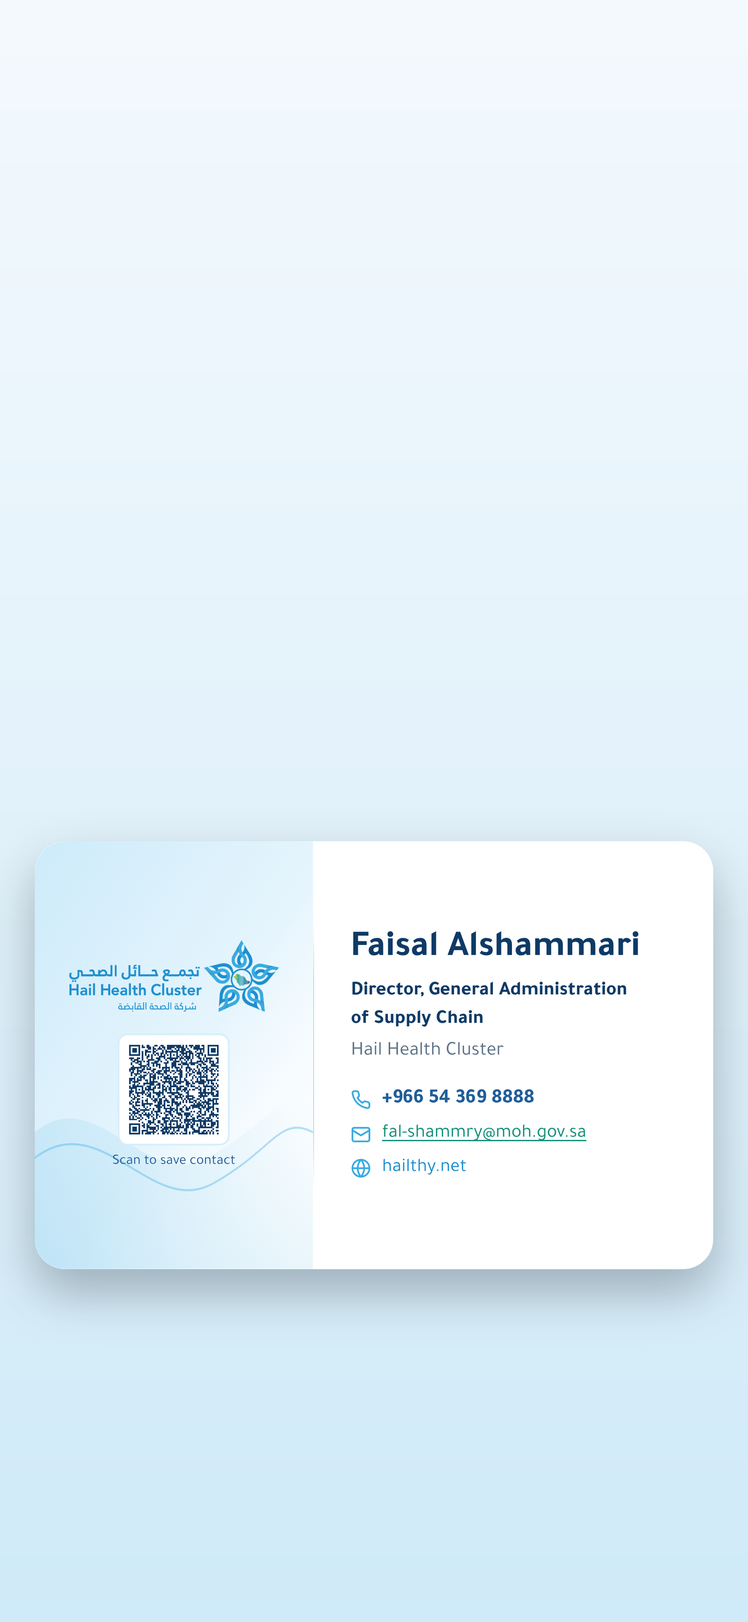
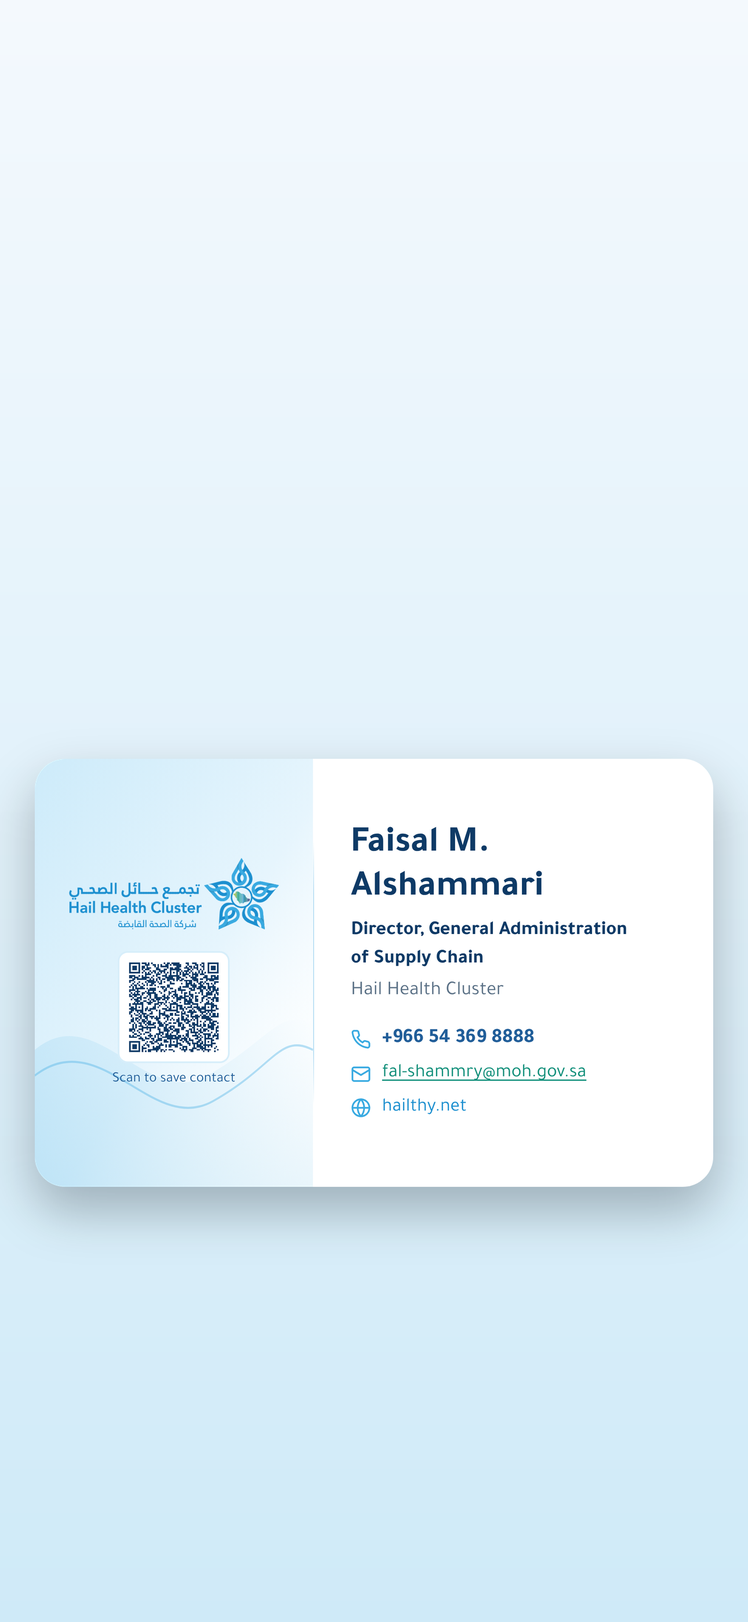
Use Faisal's full three-part name on card, contacts, QR and images
Claude-Session: https://claude.ai/code/session_01A1Siw2K8pY4JQKF1jR9KjP

Changed region(s): [[0.031, 0.4667, 0.9612, 0.809], [0.031, 0.4979, 0.062, 0.529]]

diff --git a/index.html b/index.html
@@ -3,7 +3,7 @@
 <head>
 <meta charset="utf-8">
 <meta name="viewport" content="width=device-width,initial-scale=1,viewport-fit=cover">
-<title>فيصل الشمري | Faisal Alshammari</title>
+<title>فيصل مذود الشمري | Faisal M. Alshammari</title>
 <meta name="description" content="بطاقة تعريف رقمية - تجمع حائل الصحي">
 <meta name="theme-color" content="#1C8FCF">
 <meta name="apple-mobile-web-app-capable" content="yes">
@@ -112,13 +112,14 @@ body{background:var(--ground);color:var(--ink);font-family:var(--font);-webkit-t
           <div class="brand">
             <svg class="wave" viewBox="0 0 100 100" preserveAspectRatio="none" aria-hidden="true"><defs><linearGradient id="g" x1="0" y1="0" x2="1" y2="1"><stop offset="0" stop-color="#CDEBFA"/><stop offset=".55" stop-color="#E6F5FD"/><stop offset="1" stop-color="#FFFFFF" stop-opacity="0"/></linearGradient><linearGradient id="g2" x1="0" y1="1" x2="1" y2="0"><stop offset="0" stop-color="#39AAE1" stop-opacity=".22"/><stop offset="1" stop-color="#39AAE1" stop-opacity="0"/></linearGradient></defs><path fill="url(#g)" d="M0 0H100V100H0Z"/><path fill="url(#g2)" d="M0 68C22 56 40 82 62 74S88 58 100 62V100H0Z"/><path fill="none" stroke="#39AAE1" stroke-opacity=".35" stroke-width=".5" d="M0 74C24 62 42 88 64 80S88 64 100 68"/></svg>
             <img src="logo.png" alt="تجمع حائل الصحي - شركة الصحة القابضة">
-            <div class="qr" role="img" aria-label="رمز QR لحفظ جهة الاتصال"><svg xmlns="http://www.w3.org/2000/svg" viewBox="0 0 61 61" shape-rendering="crispEdges"><path class="qrline" stroke="#0e3a66" d="M0 0.5h7m2 0h1m1 0h1m1 0h2m1 0h1m3 0h1m1 0h2m1 0h3m1 0h3m2 0h1m1 0h1m3 0h5m1 0h1m4 0h2m1 0h7m-61 1h1m5 0h1m1 0h2m1 0h2m3 0h1m1 0h2m1 0h4m3 0h1m6 0h5m1 0h1m1 0h2m2 0h2m2 0h2m1 0h1m5 0h1m-61 1h1m1 0h3m1 0h1m1 0h1m3 0h1m1 0h1m1 0h1m1 0h1m1 0h1m1 0h1m5 0h1m2 0h3m1 0h1m2 0h1m1 0h1m1 0h1m4 0h1m2 0h3m1 0h1m1 0h3m1 0h1m-61 1h1m1 0h3m1 0h1m5 0h1m2 0h2m2 0h1m2 0h3m2 0h1m3 0h5m5 0h1m1 0h1m6 0h1m1 0h1m1 0h1m1 0h3m1 0h1m-61 1h1m1 0h3m1 0h1m1 0h3m2 0h2m4 0h1m1 0h1m1 0h4m1 0h10m2 0h1m1 0h2m2 0h3m1 0h2m2 0h1m1 0h3m1 0h1m-61 1h1m5 0h1m1 0h2m1 0h1m1 0h1m1 0h1m1 0h2m1 0h3m1 0h3m1 0h1m3 0h2m3 0h2m3 0h2m1 0h1m2 0h1m1 0h1m3 0h1m5 0h1m-61 1h7m1 0h1m1 0h1m1 0h1m1 0h1m1 0h1m1 0h1m1 0h1m1 0h1m1 0h1m1 0h1m1 0h1m1 0h1m1 0h1m1 0h1m1 0h1m1 0h1m1 0h1m1 0h1m1 0h1m1 0h1m1 0h1m1 0h1m1 0h1m1 0h7m-53 1h5m2 0h1m1 0h2m1 0h6m2 0h1m3 0h2m1 0h1m1 0h1m6 0h1m1 0h2m1 0h1m1 0h2m-53 1h2m1 0h1m2 0h2m1 0h2m3 0h3m2 0h1m4 0h1m3 0h5m2 0h1m2 0h1m1 0h1m3 0h3m1 0h1m1 0h1m3 0h3m1 0h2m-60 1h1m1 0h4m1 0h1m1 0h6m1 0h2m1 0h1m2 0h1m1 0h1m2 0h3m1 0h1m2 0h1m2 0h1m4 0h2m3 0h1m3 0h2m2 0h5m-59 1h3m2 0h1m10 0h2m1 0h2m2 0h3m2 0h2m2 0h1m6 0h4m3 0h4m3 0h1m1 0h1m1 0h3m-60 1h2m1 0h2m2 0h1m3 0h2m3 0h1m1 0h5m2 0h1m1 0h2m1 0h1m1 0h1m1 0h1m1 0h2m3 0h1m3 0h2m1 0h1m1 0h2m1 0h3m1 0h1m1 0h1m-60 1h2m1 0h4m2 0h2m1 0h5m3 0h2m2 0h1m4 0h2m2 0h1m1 0h2m1 0h1m3 0h2m1 0h2m2 0h9m1 0h1m-61 1h1m2 0h2m2 0h2m2 0h2m1 0h1m1 0h1m2 0h1m1 0h1m1 0h1m1 0h1m3 0h1m7 0h1m1 0h1m3 0h1m2 0h1m1 0h1m1 0h1m2 0h1m2 0h2m1 0h2m-55 1h2m5 0h3m1 0h3m2 0h3m1 0h3m1 0h2m1 0h4m5 0h2m1 0h1m2 0h1m1 0h2m1 0h1m3 0h4m-59 1h2m1 0h1m3 0h1m1 0h4m1 0h2m1 0h1m5 0h1m3 0h1m3 0h2m1 0h2m3 0h1m2 0h2m2 0h1m1 0h1m4 0h1m1 0h4m-55 1h2m1 0h1m7 0h1m1 0h1m3 0h3m1 0h1m1 0h2m5 0h1m1 0h4m1 0h4m1 0h1m2 0h1m2 0h2m3 0h2m-59 1h1m2 0h1m1 0h1m1 0h6m1 0h2m1 0h1m5 0h1m1 0h2m1 0h2m1 0h1m1 0h1m5 0h1m2 0h2m2 0h1m4 0h2m1 0h1m1 0h2m-60 1h1m1 0h2m1 0h2m10 0h1m2 0h1m2 0h5m1 0h1m3 0h1m3 0h4m1 0h3m2 0h1m1 0h2m2 0h2m4 0h1m-59 1h1m5 0h1m2 0h1m1 0h1m7 0h4m1 0h1m1 0h1m1 0h1m3 0h2m1 0h2m2 0h1m1 0h1m3 0h3m2 0h1m2 0h3m1 0h1m1 0h1m-60 1h2m1 0h4m1 0h1m1 0h2m1 0h1m3 0h2m8 0h3m1 0h4m1 0h1m1 0h2m3 0h1m1 0h1m1 0h4m1 0h2m1 0h2m1 0h2m-61 1h3m1 0h1m2 0h4m1 0h2m4 0h1m1 0h4m2 0h5m1 0h2m1 0h1m2 0h4m4 0h1m2 0h1m3 0h1m1 0h1m3 0h2m-60 1h1m1 0h2m1 0h5m1 0h2m1 0h2m1 0h3m1 0h2m3 0h1m2 0h4m4 0h1m1 0h1m1 0h2m1 0h1m2 0h1m4 0h1m1 0h1m1 0h1m-57 1h1m5 0h1m2 0h3m1 0h1m1 0h2m2 0h1m3 0h2m2 0h1m1 0h1m2 0h3m2 0h1m1 0h1m1 0h1m1 0h1m1 0h2m2 0h1m5 0h1m-56 1h1m2 0h3m2 0h1m2 0h1m1 0h1m1 0h1m1 0h1m1 0h2m2 0h2m8 0h2m4 0h4m2 0h8m1 0h2m1 0h1m-58 1h2m4 0h1m4 0h2m1 0h1m3 0h2m1 0h3m2 0h1m1 0h3m1 0h1m7 0h2m1 0h6m6 0h2m1 0h1m-58 1h1m3 0h3m2 0h1m3 0h3m2 0h1m1 0h1m1 0h1m1 0h3m1 0h1m2 0h1m1 0h4m2 0h2m1 0h2m1 0h1m1 0h1m1 0h4m1 0h1m1 0h1m1 0h1m-61 1h1m2 0h3m7 0h5m2 0h1m2 0h2m2 0h1m5 0h3m1 0h1m2 0h1m2 0h2m2 0h2m4 0h1m3 0h2m-59 1h10m1 0h2m1 0h1m4 0h1m1 0h1m2 0h2m1 0h6m2 0h1m2 0h1m3 0h1m1 0h1m4 0h1m2 0h5m1 0h1m-59 1h1m1 0h1m1 0h1m3 0h1m1 0h1m2 0h2m2 0h2m1 0h3m1 0h5m3 0h3m1 0h1m1 0h1m2 0h1m1 0h1m8 0h1m3 0h1m2 0h2m-59 1h1m1 0h1m1 0h1m1 0h2m1 0h2m7 0h2m1 0h2m3 0h1m1 0h1m1 0h1m2 0h1m1 0h4m1 0h2m5 0h2m1 0h1m1 0h1m1 0h1m1 0h3m-61 1h1m2 0h2m3 0h2m2 0h1m1 0h2m4 0h2m1 0h3m1 0h2m3 0h2m2 0h1m1 0h3m6 0h1m2 0h1m1 0h1m3 0h3m1 0h1m-60 1h1m1 0h6m2 0h3m1 0h3m1 0h1m1 0h1m1 0h2m2 0h6m1 0h4m4 0h2m4 0h1m3 0h5m-56 1h1m7 0h2m2 0h3m1 0h1m2 0h2m2 0h6m1 0h1m1 0h1m1 0h4m4 0h1m1 0h1m2 0h4m1 0h1m3 0h1m2 0h1m-60 1h1m1 0h1m1 0h3m1 0h1m1 0h2m2 0h1m2 0h1m1 0h2m7 0h1m1 0h8m1 0h1m1 0h6m1 0h1m1 0h1m1 0h1m2 0h3m-59 1h1m6 0h4m2 0h1m1 0h1m2 0h1m1 0h1m1 0h3m1 0h3m1 0h1m1 0h1m1 0h2m1 0h1m2 0h1m1 0h1m1 0h3m1 0h2m1 0h1m1 0h1m2 0h1m-57 1h7m4 0h3m3 0h3m1 0h1m2 0h3m2 0h1m1 0h2m2 0h1m2 0h1m1 0h1m2 0h1m2 0h3m3 0h1m2 0h2m-57 1h1m2 0h2m2 0h2m1 0h1m3 0h1m1 0h1m1 0h1m1 0h1m1 0h1m2 0h1m1 0h1m1 0h1m1 0h1m3 0h2m1 0h3m2 0h1m1 0h1m1 0h1m3 0h1m1 0h1m1 0h2m1 0h1m-59 1h4m1 0h2m1 0h3m3 0h3m6 0h1m3 0h1m1 0h1m1 0h1m2 0h2m2 0h8m1 0h1m2 0h1m2 0h1m1 0h3m-58 1h2m1 0h3m2 0h3m2 0h1m2 0h6m1 0h1m4 0h3m1 0h1m2 0h1m3 0h2m3 0h4m1 0h1m2 0h3m4 0h2m-60 1h2m2 0h2m1 0h1m1 0h2m1 0h3m1 0h1m2 0h1m1 0h5m1 0h6m4 0h1m3 0h5m1 0h2m6 0h1m-55 1h1m2 0h1m4 0h2m4 0h1m2 0h6m1 0h1m5 0h1m1 0h2m1 0h7m3 0h2m1 0h3m1 0h1m3 0h2m-56 1h1m1 0h1m2 0h1m1 0h5m2 0h4m1 0h1m4 0h2m1 0h1m1 0h2m2 0h1m3 0h3m1 0h3m1 0h2m1 0h5m1 0h1m1 0h1m-60 1h1m1 0h1m3 0h1m1 0h1m2 0h1m1 0h3m4 0h2m3 0h1m3 0h1m3 0h2m3 0h4m1 0h2m4 0h6m-54 1h1m2 0h2m1 0h2m1 0h4m1 0h1m3 0h1m1 0h1m1 0h5m4 0h1m1 0h2m1 0h3m1 0h2m2 0h1m2 0h1m1 0h1m1 0h8m-61 1h2m2 0h1m2 0h5m1 0h3m5 0h2m1 0h1m2 0h2m5 0h2m3 0h1m3 0h2m2 0h1m1 0h3m3 0h1m1 0h1m1 0h2m-60 1h2m1 0h4m1 0h1m3 0h1m2 0h3m4 0h5m1 0h1m1 0h3m2 0h7m2 0h2m1 0h8m3 0h2m-59 1h2m3 0h3m1 0h2m1 0h3m2 0h2m2 0h1m1 0h2m1 0h1m4 0h5m3 0h2m1 0h2m4 0h4m4 0h3m-60 1h1m2 0h1m1 0h6m1 0h2m1 0h2m2 0h1m1 0h4m1 0h1m2 0h1m3 0h1m1 0h1m2 0h1m2 0h3m1 0h4m1 0h1m3 0h6m-58 1h3m2 0h1m1 0h1m1 0h3m5 0h1m1 0h2m1 0h1m1 0h1m2 0h5m1 0h1m2 0h2m2 0h1m1 0h2m2 0h3m1 0h1m1 0h1m1 0h2m-57 1h7m1 0h1m6 0h1m1 0h1m4 0h2m3 0h2m3 0h9m1 0h1m1 0h2m1 0h1m1 0h3m2 0h3m-59 1h3m1 0h1m3 0h2m2 0h2m2 0h1m2 0h2m2 0h1m2 0h1m6 0h1m1 0h1m2 0h2m3 0h2m2 0h2m1 0h8m2 0h1m-61 1h4m2 0h2m1 0h2m3 0h1m1 0h3m1 0h1m1 0h3m1 0h8m5 0h1m1 0h3m1 0h1m1 0h2m3 0h5m2 0h2m-53 1h1m2 0h2m1 0h1m6 0h1m1 0h1m1 0h4m3 0h2m1 0h1m3 0h3m1 0h2m1 0h7m3 0h5m-61 1h7m1 0h3m1 0h3m1 0h1m1 0h1m1 0h4m1 0h1m1 0h2m1 0h1m1 0h3m2 0h3m2 0h1m2 0h3m3 0h2m1 0h1m1 0h3m1 0h1m-61 1h1m5 0h1m3 0h2m3 0h2m2 0h1m4 0h1m1 0h3m3 0h2m3 0h1m3 0h2m3 0h3m2 0h2m3 0h1m1 0h1m1 0h1m-61 1h1m1 0h3m1 0h1m2 0h2m4 0h1m1 0h2m2 0h1m1 0h1m1 0h10m5 0h4m2 0h2m1 0h2m1 0h5m1 0h1m1 0h1m-61 1h1m1 0h3m1 0h1m1 0h2m1 0h1m1 0h1m1 0h2m3 0h1m2 0h3m1 0h1m1 0h1m1 0h4m1 0h2m1 0h1m1 0h4m2 0h1m4 0h1m2 0h5m-60 1h1m1 0h3m1 0h1m3 0h5m4 0h1m1 0h2m1 0h2m2 0h4m7 0h3m1 0h1m1 0h1m3 0h3m1 0h3m1 0h1m2 0h1m-61 1h1m5 0h1m1 0h2m4 0h4m6 0h4m1 0h1m1 0h4m3 0h2m1 0h1m1 0h1m1 0h2m1 0h1m1 0h2m1 0h6m-59 1h7m1 0h2m3 0h1m2 0h1m2 0h1m1 0h3m3 0h2m4 0h2m1 0h1m1 0h3m1 0h1m1 0h3m1 0h1m1 0h1m2 0h2m3 0h3"/></svg>
+            <div class="qr" role="img" aria-label="رمز QR لحفظ جهة الاتصال"><svg xmlns="http://www.w3.org/2000/svg" viewBox="0 0 61 61" shape-rendering="crispEdges"><path class="qrline" stroke="#0e3a66" d="M0 0.5h7m1 0h1m1 0h2m2 0h3m1 0h1m2 0h2m3 0h1m4 0h2m1 0h4m1 0h3m2 0h4m3 0h2m1 0h7m-61 1h1m5 0h1m1 0h2m2 0h1m1 0h2m1 0h1m1 0h2m1 0h1m1 0h2m1 0h2m3 0h1m4 0h2m1 0h1m3 0h3m1 0h2m1 0h2m1 0h1m5 0h1m-61 1h1m1 0h3m1 0h1m2 0h1m1 0h1m1 0h6m1 0h1m1 0h1m2 0h2m3 0h1m1 0h1m3 0h2m1 0h1m2 0h1m1 0h1m2 0h1m1 0h4m1 0h1m1 0h3m1 0h1m-61 1h1m1 0h3m1 0h1m4 0h2m1 0h1m2 0h1m2 0h1m1 0h1m5 0h1m3 0h1m1 0h3m2 0h1m3 0h2m2 0h1m1 0h2m1 0h1m1 0h1m1 0h3m1 0h1m-61 1h1m1 0h3m1 0h1m1 0h2m1 0h3m2 0h1m1 0h7m2 0h6m1 0h1m1 0h2m1 0h2m1 0h1m1 0h1m5 0h2m2 0h1m1 0h3m1 0h1m-61 1h1m5 0h1m1 0h1m5 0h1m1 0h3m3 0h1m2 0h1m1 0h2m3 0h1m1 0h3m1 0h1m1 0h6m4 0h1m3 0h1m5 0h1m-61 1h7m1 0h1m1 0h1m1 0h1m1 0h1m1 0h1m1 0h1m1 0h1m1 0h1m1 0h1m1 0h1m1 0h1m1 0h1m1 0h1m1 0h1m1 0h1m1 0h1m1 0h1m1 0h1m1 0h1m1 0h1m1 0h1m1 0h1m1 0h1m1 0h7m-53 1h1m1 0h1m1 0h2m4 0h2m1 0h1m2 0h1m3 0h1m3 0h1m1 0h1m3 0h1m2 0h1m2 0h1m3 0h2m1 0h2m-53 1h3m2 0h2m1 0h1m3 0h2m2 0h1m3 0h2m2 0h10m1 0h1m1 0h1m1 0h2m2 0h1m1 0h5m1 0h6m2 0h2m-61 1h5m2 0h1m3 0h1m3 0h2m6 0h2m3 0h1m1 0h1m2 0h3m1 0h1m1 0h4m2 0h2m2 0h1m2 0h2m2 0h2m-58 1h4m2 0h1m1 0h1m3 0h2m3 0h2m1 0h2m5 0h3m2 0h1m1 0h2m2 0h1m3 0h2m2 0h1m1 0h3m1 0h3m1 0h1m3 0h1m-61 1h1m6 0h1m5 0h3m6 0h2m1 0h3m4 0h1m1 0h1m1 0h1m2 0h1m2 0h3m3 0h3m1 0h2m2 0h3m1 0h1m-59 1h2m1 0h2m4 0h1m1 0h2m1 0h1m3 0h1m1 0h1m1 0h4m1 0h1m4 0h1m1 0h1m1 0h1m2 0h2m1 0h1m1 0h2m3 0h2m1 0h1m1 0h1m1 0h3m-58 1h1m4 0h1m3 0h6m1 0h1m3 0h4m2 0h1m1 0h2m1 0h1m1 0h2m4 0h1m6 0h1m1 0h1m1 0h3m2 0h1m1 0h1m-58 1h1m1 0h2m1 0h2m1 0h2m2 0h3m3 0h3m1 0h1m3 0h6m2 0h1m1 0h3m1 0h1m1 0h3m2 0h2m2 0h1m2 0h2m1 0h1m-57 1h2m1 0h3m2 0h1m1 0h1m1 0h1m3 0h2m2 0h2m7 0h1m1 0h1m3 0h1m1 0h1m1 0h1m3 0h3m2 0h1m3 0h1m1 0h2m-60 1h4m1 0h2m1 0h3m1 0h1m2 0h3m1 0h1m1 0h2m1 0h2m2 0h1m5 0h1m1 0h1m1 0h1m3 0h1m4 0h4m1 0h6m1 0h2m-60 1h3m1 0h1m1 0h3m2 0h1m2 0h4m1 0h2m5 0h1m1 0h1m5 0h1m1 0h3m1 0h3m4 0h4m1 0h3m1 0h3m-60 1h3m1 0h4m1 0h3m1 0h3m1 0h1m1 0h4m1 0h4m2 0h1m1 0h1m2 0h1m2 0h1m1 0h1m1 0h1m1 0h2m4 0h2m2 0h2m1 0h2m-58 1h2m4 0h4m2 0h1m1 0h3m2 0h2m3 0h2m1 0h3m2 0h1m2 0h2m2 0h2m2 0h1m1 0h3m1 0h1m1 0h3m4 0h1m-58 1h3m1 0h1m1 0h1m3 0h3m1 0h1m1 0h3m4 0h4m1 0h1m1 0h1m1 0h2m4 0h4m2 0h1m1 0h4m2 0h2m1 0h1m1 0h1m-60 1h2m1 0h2m2 0h2m3 0h1m2 0h1m1 0h1m2 0h2m3 0h2m1 0h2m1 0h1m1 0h1m3 0h5m4 0h1m1 0h1m2 0h1m1 0h1m1 0h1m1 0h1m2 0h1m-61 1h2m2 0h3m4 0h1m2 0h1m2 0h2m1 0h1m1 0h4m2 0h1m1 0h1m4 0h1m2 0h1m4 0h1m1 0h2m2 0h1m2 0h1m2 0h1m2 0h2m-60 1h1m2 0h3m1 0h4m1 0h2m1 0h3m2 0h1m3 0h1m1 0h3m2 0h2m1 0h2m1 0h1m2 0h1m1 0h2m2 0h1m2 0h1m1 0h2m2 0h1m1 0h1m-56 1h5m1 0h2m4 0h2m1 0h4m2 0h1m1 0h4m2 0h1m1 0h2m2 0h3m2 0h1m2 0h3m2 0h1m1 0h1m3 0h4m-59 1h5m7 0h1m2 0h2m1 0h3m2 0h1m3 0h1m1 0h1m3 0h2m1 0h1m4 0h1m1 0h1m1 0h2m1 0h1m1 0h3m2 0h1m1 0h1m-58 1h1m1 0h1m1 0h2m3 0h1m2 0h5m1 0h1m2 0h4m2 0h1m3 0h1m2 0h5m1 0h3m1 0h1m1 0h1m2 0h1m2 0h3m2 0h1m1 0h1m-61 1h2m1 0h1m1 0h1m1 0h1m2 0h1m5 0h2m1 0h3m2 0h4m3 0h1m2 0h1m1 0h1m1 0h1m1 0h2m2 0h1m1 0h2m6 0h1m1 0h1m1 0h3m-59 1h1m1 0h7m1 0h6m4 0h1m2 0h2m1 0h6m1 0h2m1 0h3m3 0h2m3 0h1m1 0h9m-60 1h1m1 0h3m3 0h4m1 0h1m2 0h1m8 0h2m1 0h1m3 0h1m2 0h1m1 0h1m3 0h2m1 0h2m2 0h2m2 0h1m3 0h2m2 0h1m-61 1h1m1 0h1m1 0h1m1 0h1m1 0h1m5 0h1m1 0h5m2 0h1m1 0h1m1 0h2m1 0h1m1 0h4m1 0h1m2 0h1m1 0h2m2 0h2m1 0h4m1 0h1m1 0h1m3 0h1m-61 1h2m1 0h2m3 0h1m1 0h1m1 0h1m3 0h2m1 0h2m1 0h3m1 0h1m1 0h1m3 0h4m2 0h1m3 0h1m1 0h3m3 0h1m1 0h1m3 0h3m1 0h1m-61 1h1m1 0h7m2 0h2m3 0h1m3 0h1m2 0h2m3 0h5m1 0h1m1 0h1m1 0h2m1 0h3m1 0h1m2 0h9m1 0h1m1 0h1m-59 1h1m6 0h4m1 0h1m2 0h1m1 0h2m2 0h3m1 0h1m1 0h3m1 0h1m4 0h2m2 0h1m4 0h2m1 0h2m3 0h1m1 0h4m-61 1h7m2 0h3m4 0h3m2 0h1m1 0h1m2 0h4m1 0h4m1 0h4m1 0h1m1 0h1m5 0h1m2 0h2m2 0h1m1 0h2m-58 1h2m3 0h4m1 0h1m1 0h1m4 0h3m1 0h2m1 0h3m1 0h2m1 0h1m1 0h1m2 0h1m1 0h1m2 0h1m1 0h1m2 0h3m2 0h2m2 0h1m-58 1h2m1 0h1m2 0h1m3 0h1m4 0h2m1 0h1m1 0h2m3 0h3m2 0h5m3 0h5m3 0h4m1 0h3m1 0h1m3 0h1m-59 1h1m1 0h1m1 0h1m1 0h1m3 0h2m2 0h1m3 0h2m4 0h2m1 0h2m1 0h2m2 0h1m2 0h4m3 0h2m1 0h2m2 0h2m2 0h2m1 0h1m-60 1h1m2 0h1m2 0h5m1 0h1m1 0h1m5 0h2m1 0h4m2 0h1m2 0h2m2 0h3m4 0h2m1 0h1m1 0h2m1 0h3m1 0h2m-57 1h1m3 0h2m2 0h2m1 0h3m1 0h1m2 0h2m4 0h1m3 0h1m2 0h1m1 0h1m3 0h1m1 0h1m1 0h1m1 0h3m1 0h1m3 0h2m3 0h2m-58 1h2m1 0h1m1 0h2m1 0h2m2 0h1m1 0h1m1 0h1m3 0h2m2 0h6m2 0h1m1 0h2m2 0h1m2 0h4m4 0h1m1 0h4m1 0h5m-60 1h1m1 0h3m3 0h1m1 0h1m1 0h1m1 0h2m5 0h3m4 0h2m1 0h4m1 0h1m1 0h4m1 0h6m4 0h4m2 0h1m-58 1h2m1 0h1m2 0h3m2 0h3m1 0h1m1 0h1m2 0h3m3 0h1m4 0h2m1 0h2m1 0h1m1 0h1m3 0h3m1 0h2m2 0h7m-60 1h1m1 0h3m1 0h4m1 0h1m1 0h1m2 0h1m3 0h1m3 0h2m3 0h1m3 0h5m3 0h4m2 0h2m1 0h1m1 0h3m1 0h3m-59 1h3m2 0h1m1 0h1m1 0h1m1 0h1m3 0h1m2 0h2m1 0h5m1 0h1m2 0h3m2 0h4m1 0h4m1 0h2m4 0h3m3 0h3m-61 1h1m2 0h3m1 0h1m1 0h5m1 0h3m1 0h1m3 0h1m4 0h2m1 0h1m1 0h1m3 0h1m1 0h1m2 0h1m2 0h1m7 0h1m4 0h1m1 0h1m-60 1h1m1 0h2m1 0h5m1 0h6m2 0h4m1 0h1m1 0h1m1 0h1m1 0h2m1 0h2m3 0h1m1 0h1m4 0h2m4 0h1m1 0h2m2 0h1m1 0h1m-60 1h2m4 0h1m1 0h3m2 0h1m5 0h2m1 0h1m3 0h1m1 0h1m1 0h1m3 0h1m2 0h2m1 0h3m5 0h1m3 0h1m1 0h2m1 0h1m1 0h1m-58 1h1m1 0h4m1 0h8m1 0h1m1 0h2m1 0h2m1 0h1m1 0h3m4 0h2m7 0h2m1 0h1m4 0h3m1 0h3m-59 1h3m1 0h1m4 0h1m1 0h2m1 0h2m1 0h1m1 0h2m3 0h3m1 0h2m1 0h2m1 0h2m4 0h2m4 0h1m1 0h2m2 0h1m1 0h1m3 0h1m-58 1h8m2 0h1m1 0h2m2 0h4m2 0h2m1 0h2m1 0h6m4 0h1m1 0h1m1 0h4m2 0h1m1 0h1m2 0h2m-57 1h3m1 0h1m3 0h2m5 0h3m2 0h1m1 0h1m2 0h1m1 0h2m1 0h2m1 0h5m2 0h1m3 0h1m1 0h4m2 0h2m2 0h2m-58 1h4m2 0h1m2 0h1m1 0h1m2 0h1m1 0h3m6 0h8m2 0h1m1 0h4m2 0h4m1 0h1m2 0h7m2 0h1m-53 1h1m4 0h1m1 0h1m1 0h2m1 0h2m3 0h2m1 0h1m3 0h1m4 0h2m1 0h1m2 0h1m2 0h4m2 0h1m3 0h1m1 0h1m1 0h1m-61 1h7m2 0h1m2 0h1m1 0h1m1 0h5m1 0h3m2 0h2m1 0h1m1 0h4m2 0h2m3 0h1m5 0h1m2 0h1m1 0h1m1 0h1m1 0h3m-61 1h1m5 0h1m1 0h2m3 0h1m1 0h3m2 0h2m2 0h1m1 0h1m1 0h1m3 0h1m1 0h2m1 0h2m1 0h1m1 0h1m3 0h3m3 0h1m3 0h2m1 0h2m-61 1h1m1 0h3m1 0h1m2 0h1m1 0h1m1 0h1m1 0h1m1 0h4m2 0h1m4 0h5m1 0h1m2 0h3m1 0h2m1 0h1m1 0h2m3 0h8m-59 1h1m1 0h3m1 0h1m3 0h2m5 0h1m1 0h3m5 0h1m1 0h1m1 0h1m2 0h3m5 0h1m1 0h1m1 0h1m2 0h1m3 0h1m1 0h1m2 0h1m-59 1h1m1 0h3m1 0h1m1 0h1m1 0h4m2 0h2m1 0h1m1 0h2m1 0h2m1 0h1m1 0h2m1 0h4m3 0h1m3 0h1m1 0h3m1 0h2m1 0h3m2 0h4m-61 1h1m5 0h1m1 0h3m2 0h1m2 0h1m2 0h3m4 0h2m5 0h1m2 0h2m1 0h1m1 0h1m5 0h1m2 0h2m1 0h3m2 0h1m-59 1h7m1 0h5m4 0h1m1 0h2m1 0h3m1 0h1m2 0h2m1 0h3m1 0h3m2 0h1m2 0h2m3 0h1m1 0h1m2 0h1m1 0h1m3 0h1"/></svg>
+
 </div>
             <div class="qr-cap">امسح لحفظ جهة الاتصال</div>
           </div>
           <div class="rule"></div>
           <div class="info">
-            <p class="name">فيصل الشمري</p>
+            <p class="name">فيصل مذود الشمري</p>
             <p class="title">مدير الإدارة العامة لسلاسل الإمداد</p>
             <p class="org">تجمع حائل الصحي</p>
             <div class="line"><svg viewBox="0 0 24 24" fill="none" stroke="#39AAE1" stroke-width="2" stroke-linecap="round" stroke-linejoin="round" aria-hidden="true"><path d="M22 16.9v3a2 2 0 0 1-2.2 2 19.8 19.8 0 0 1-8.6-3.1 19.5 19.5 0 0 1-6-6A19.8 19.8 0 0 1 2.1 4.2 2 2 0 0 1 4.1 2h3a2 2 0 0 1 2 1.7c.1.9.4 1.8.7 2.7a2 2 0 0 1-.5 2.1L8 9.8a16 16 0 0 0 6 6l1.3-1.3a2 2 0 0 1 2.1-.4c.9.3 1.8.6 2.7.7a2 2 0 0 1 1.7 2z"/></svg><span class="tel">+966 54 369 8888</span></div>
@@ -130,13 +131,14 @@ body{background:var(--ground);color:var(--ink);font-family:var(--font);-webkit-t
           <div class="brand">
             <svg class="wave" viewBox="0 0 100 100" preserveAspectRatio="none" aria-hidden="true"><defs><linearGradient id="g" x1="0" y1="0" x2="1" y2="1"><stop offset="0" stop-color="#CDEBFA"/><stop offset=".55" stop-color="#E6F5FD"/><stop offset="1" stop-color="#FFFFFF" stop-opacity="0"/></linearGradient><linearGradient id="g2" x1="0" y1="1" x2="1" y2="0"><stop offset="0" stop-color="#39AAE1" stop-opacity=".22"/><stop offset="1" stop-color="#39AAE1" stop-opacity="0"/></linearGradient></defs><path fill="url(#g)" d="M0 0H100V100H0Z"/><path fill="url(#g2)" d="M0 68C22 56 40 82 62 74S88 58 100 62V100H0Z"/><path fill="none" stroke="#39AAE1" stroke-opacity=".35" stroke-width=".5" d="M0 74C24 62 42 88 64 80S88 64 100 68"/></svg>
             <img src="logo.png" alt="Hail Health Cluster - Health Holding">
-            <div class="qr" role="img" aria-label="QR code to save contact"><svg xmlns="http://www.w3.org/2000/svg" viewBox="0 0 57 57" shape-rendering="crispEdges"><path class="qrline" stroke="#0e3a66" d="M0 0.5h7m1 0h1m2 0h2m3 0h2m2 0h2m2 0h9m1 0h1m1 0h1m1 0h3m1 0h3m1 0h2m2 0h7m-57 1h1m5 0h1m1 0h2m1 0h3m1 0h1m3 0h1m1 0h2m1 0h5m1 0h5m1 0h1m2 0h1m1 0h4m2 0h1m2 0h1m5 0h1m-57 1h1m1 0h3m1 0h1m5 0h2m1 0h2m1 0h3m1 0h1m1 0h3m2 0h1m1 0h1m1 0h3m1 0h1m3 0h7m2 0h1m1 0h3m1 0h1m-57 1h1m1 0h3m1 0h1m3 0h2m3 0h1m1 0h1m3 0h1m1 0h1m3 0h1m2 0h2m1 0h3m2 0h1m4 0h1m1 0h1m1 0h1m2 0h1m1 0h3m1 0h1m-57 1h1m1 0h3m1 0h1m1 0h1m1 0h4m1 0h2m4 0h1m1 0h8m1 0h3m1 0h4m2 0h1m2 0h1m1 0h1m2 0h1m1 0h3m1 0h1m-57 1h1m5 0h1m1 0h1m1 0h1m4 0h1m1 0h2m1 0h2m1 0h1m2 0h1m3 0h1m2 0h4m1 0h3m2 0h4m3 0h1m5 0h1m-57 1h7m1 0h1m1 0h1m1 0h1m1 0h1m1 0h1m1 0h1m1 0h1m1 0h1m1 0h1m1 0h1m1 0h1m1 0h1m1 0h1m1 0h1m1 0h1m1 0h1m1 0h1m1 0h1m1 0h1m1 0h1m1 0h1m1 0h7m-49 1h1m2 0h2m1 0h1m4 0h4m3 0h1m3 0h2m1 0h1m1 0h4m1 0h1m2 0h2m3 0h1m-49 1h3m2 0h2m1 0h1m2 0h1m2 0h1m2 0h3m2 0h1m1 0h7m1 0h3m1 0h3m1 0h1m3 0h2m1 0h1m1 0h4m2 0h2m-56 1h1m1 0h3m2 0h1m3 0h4m2 0h2m3 0h1m2 0h2m1 0h1m2 0h1m2 0h1m1 0h1m1 0h1m5 0h1m1 0h1m1 0h1m1 0h1m4 0h1m-55 1h2m1 0h3m1 0h1m1 0h2m3 0h3m1 0h1m3 0h1m3 0h4m1 0h1m2 0h1m2 0h1m3 0h4m1 0h2m1 0h3m2 0h1m-56 1h1m2 0h2m1 0h1m4 0h1m1 0h4m4 0h3m2 0h3m3 0h4m1 0h6m2 0h2m3 0h1m1 0h1m1 0h2m-56 1h1m4 0h2m3 0h2m2 0h1m1 0h3m3 0h1m3 0h3m1 0h2m1 0h4m1 0h3m2 0h2m1 0h2m3 0h3m-53 1h1m4 0h4m1 0h1m2 0h1m1 0h1m1 0h1m3 0h1m3 0h3m3 0h1m3 0h1m5 0h1m1 0h1m3 0h1m2 0h5m-56 1h7m1 0h1m1 0h1m1 0h1m5 0h1m1 0h5m1 0h1m1 0h3m1 0h1m2 0h3m4 0h1m2 0h4m1 0h1m4 0h1m-57 1h4m1 0h1m2 0h2m1 0h3m1 0h2m4 0h1m1 0h1m1 0h1m4 0h1m1 0h1m3 0h1m1 0h2m1 0h1m2 0h1m2 0h1m1 0h2m1 0h2m1 0h1m-56 1h1m1 0h1m2 0h4m5 0h2m2 0h3m1 0h4m1 0h2m1 0h4m2 0h1m1 0h1m1 0h1m1 0h1m1 0h1m1 0h1m1 0h2m1 0h2m1 0h1m1 0h1m-56 1h2m2 0h1m1 0h1m1 0h2m1 0h1m2 0h1m1 0h3m2 0h2m2 0h1m2 0h1m2 0h2m3 0h1m2 0h2m1 0h3m1 0h1m1 0h1m2 0h1m-52 1h1m1 0h4m4 0h1m1 0h2m1 0h1m1 0h4m1 0h1m4 0h1m2 0h3m2 0h1m1 0h2m3 0h3m2 0h1m3 0h3m1 0h1m-56 1h1m2 0h1m2 0h1m1 0h2m2 0h1m1 0h2m4 0h1m2 0h2m6 0h2m2 0h1m1 0h1m2 0h1m3 0h1m1 0h1m1 0h1m3 0h1m2 0h1m-54 1h1m2 0h4m3 0h4m1 0h1m1 0h1m1 0h3m1 0h1m1 0h3m1 0h2m2 0h1m3 0h1m1 0h1m1 0h6m2 0h1m2 0h1m-56 1h4m1 0h1m1 0h1m1 0h1m3 0h1m1 0h2m1 0h1m3 0h6m1 0h1m2 0h1m2 0h1m4 0h1m2 0h1m1 0h1m3 0h1m4 0h1m-55 1h2m1 0h1m1 0h3m2 0h2m1 0h1m1 0h1m4 0h1m2 0h1m1 0h1m1 0h1m1 0h2m1 0h1m2 0h2m2 0h1m3 0h1m1 0h3m1 0h6m1 0h1m-57 1h1m1 0h4m5 0h1m1 0h5m3 0h6m1 0h2m1 0h4m1 0h2m2 0h1m1 0h7m1 0h1m1 0h1m-53 1h1m2 0h1m2 0h1m2 0h7m2 0h2m2 0h1m2 0h2m1 0h1m1 0h3m3 0h3m1 0h2m2 0h4m2 0h1m1 0h2m1 0h1m-54 1h2m1 0h1m3 0h1m3 0h3m1 0h3m1 0h1m4 0h1m1 0h2m6 0h2m1 0h1m7 0h1m1 0h1m3 0h1m2 0h1m-57 1h1m1 0h7m2 0h3m2 0h1m2 0h1m1 0h2m1 0h1m1 0h5m1 0h3m2 0h1m1 0h3m2 0h1m2 0h6m1 0h1m1 0h1m-57 1h5m3 0h1m1 0h1m1 0h2m1 0h2m1 0h2m1 0h1m1 0h1m1 0h2m3 0h3m2 0h2m5 0h2m1 0h1m2 0h1m3 0h2m1 0h1m-55 1h1m2 0h1m1 0h1m1 0h1m1 0h6m5 0h3m1 0h2m1 0h1m1 0h3m1 0h3m1 0h1m1 0h2m2 0h2m1 0h2m1 0h1m1 0h3m-55 1h3m1 0h1m3 0h2m2 0h1m2 0h1m3 0h1m1 0h1m1 0h1m2 0h1m3 0h1m2 0h1m1 0h1m1 0h1m7 0h1m1 0h2m3 0h1m2 0h2m-57 1h2m2 0h6m1 0h1m1 0h1m1 0h7m2 0h8m4 0h2m6 0h10m2 0h1m-57 1h1m1 0h1m2 0h1m2 0h1m1 0h1m1 0h2m3 0h3m1 0h1m5 0h2m2 0h3m3 0h1m7 0h2m1 0h1m1 0h1m1 0h2m1 0h2m-57 1h1m2 0h1m1 0h2m4 0h3m1 0h1m2 0h2m2 0h1m2 0h2m2 0h2m1 0h1m1 0h1m1 0h5m3 0h6m3 0h4m-56 1h1m1 0h2m3 0h1m4 0h1m1 0h1m2 0h1m2 0h2m3 0h1m2 0h5m2 0h2m2 0h2m3 0h1m1 0h1m-46 1h2m1 0h2m4 0h1m2 0h1m1 0h2m1 0h2m2 0h1m3 0h2m1 0h1m2 0h1m1 0h1m1 0h4m2 0h2m2 0h1m2 0h2m1 0h4m-56 1h1m3 0h1m2 0h1m1 0h2m3 0h3m1 0h2m1 0h3m2 0h2m5 0h1m1 0h1m1 0h1m2 0h2m2 0h1m2 0h1m1 0h4m1 0h1m-56 1h1m1 0h1m1 0h3m1 0h1m2 0h1m4 0h1m1 0h3m1 0h1m1 0h2m1 0h4m1 0h1m1 0h1m1 0h1m1 0h3m1 0h1m1 0h1m1 0h5m2 0h1m1 0h1m-56 1h2m2 0h1m3 0h7m3 0h3m1 0h1m4 0h1m1 0h4m8 0h1m1 0h3m1 0h1m1 0h3m1 0h4m-55 1h1m1 0h3m1 0h2m3 0h1m2 0h4m1 0h2m1 0h2m1 0h1m2 0h2m3 0h1m3 0h8m1 0h1m1 0h1m2 0h1m-52 1h2m5 0h1m1 0h1m5 0h4m1 0h1m3 0h1m3 0h1m3 0h1m1 0h1m1 0h1m1 0h5m1 0h3m1 0h4m-54 1h1m2 0h2m1 0h1m3 0h1m2 0h1m1 0h1m2 0h2m2 0h7m1 0h1m1 0h2m2 0h3m1 0h1m3 0h2m1 0h1m1 0h3m1 0h1m1 0h2m-57 1h2m2 0h2m1 0h6m2 0h1m2 0h2m3 0h1m2 0h2m1 0h2m1 0h2m2 0h2m7 0h1m3 0h2m2 0h1m2 0h1m-55 1h2m1 0h2m2 0h1m4 0h1m1 0h4m3 0h4m1 0h1m1 0h1m2 0h2m4 0h1m1 0h1m2 0h2m2 0h1m1 0h1m1 0h1m3 0h1m-57 1h1m1 0h4m2 0h1m1 0h1m1 0h1m1 0h1m2 0h1m2 0h1m1 0h1m2 0h2m3 0h3m2 0h4m4 0h1m1 0h1m2 0h1m3 0h2m-53 1h1m1 0h1m2 0h2m1 0h5m1 0h1m1 0h2m4 0h2m1 0h2m3 0h3m1 0h4m1 0h1m3 0h1m1 0h3m2 0h6m-57 1h1m1 0h1m1 0h1m2 0h1m3 0h2m1 0h1m2 0h1m1 0h1m3 0h1m3 0h1m1 0h1m3 0h1m2 0h2m1 0h1m3 0h3m5 0h1m1 0h1m1 0h1m-56 1h1m1 0h1m2 0h2m1 0h1m3 0h1m2 0h1m1 0h1m3 0h5m2 0h1m1 0h2m1 0h1m2 0h1m3 0h2m1 0h1m2 0h2m1 0h3m4 0h1m-57 1h5m2 0h1m2 0h1m4 0h2m4 0h2m2 0h1m1 0h1m4 0h1m2 0h7m2 0h2m2 0h1m1 0h1m1 0h1m-47 1h1m5 0h2m1 0h1m2 0h2m2 0h3m1 0h5m1 0h1m2 0h4m1 0h13m2 0h2m-49 1h1m3 0h4m2 0h2m2 0h2m2 0h1m3 0h1m2 0h1m1 0h1m1 0h1m1 0h1m1 0h1m3 0h1m1 0h2m3 0h3m1 0h1m-57 1h7m2 0h1m1 0h1m1 0h1m2 0h1m3 0h2m1 0h1m1 0h2m1 0h1m1 0h1m1 0h1m3 0h3m1 0h2m1 0h1m1 0h1m1 0h2m1 0h1m1 0h3m1 0h1m-57 1h1m5 0h1m1 0h2m1 0h2m4 0h2m2 0h1m1 0h1m2 0h1m3 0h3m1 0h1m1 0h2m1 0h2m2 0h1m1 0h2m1 0h1m3 0h2m2 0h1m-57 1h1m1 0h3m1 0h1m2 0h1m1 0h6m1 0h1m1 0h1m1 0h13m1 0h2m1 0h2m3 0h9m2 0h2m-57 1h1m1 0h3m1 0h1m4 0h1m1 0h4m1 0h1m2 0h4m1 0h1m1 0h1m2 0h1m3 0h2m3 0h2m2 0h1m8 0h1m-54 1h1m1 0h3m1 0h1m1 0h4m3 0h1m1 0h1m2 0h2m1 0h1m1 0h1m2 0h1m1 0h2m3 0h2m4 0h4m2 0h2m1 0h1m1 0h1m2 0h2m-57 1h1m5 0h1m1 0h1m2 0h6m4 0h5m1 0h1m1 0h1m3 0h1m2 0h1m1 0h1m1 0h5m1 0h2m1 0h1m1 0h1m1 0h1m-54 1h7m1 0h1m1 0h4m1 0h1m2 0h1m2 0h2m1 0h1m1 0h3m1 0h1m1 0h1m1 0h3m1 0h1m1 0h1m3 0h6m1 0h1m1 0h1m2 0h1"/></svg>
+            <div class="qr" role="img" aria-label="QR code to save contact"><svg xmlns="http://www.w3.org/2000/svg" viewBox="0 0 57 57" shape-rendering="crispEdges"><path class="qrline" stroke="#0e3a66" d="M0 0.5h7m1 0h3m1 0h1m1 0h1m7 0h1m1 0h2m1 0h5m4 0h2m2 0h3m3 0h2m2 0h7m-57 1h1m5 0h1m3 0h3m2 0h2m1 0h1m1 0h1m2 0h2m1 0h1m1 0h5m4 0h1m4 0h2m1 0h1m1 0h1m2 0h1m5 0h1m-57 1h1m1 0h3m1 0h1m1 0h2m1 0h1m4 0h1m1 0h1m1 0h5m5 0h3m3 0h1m1 0h2m1 0h1m1 0h1m2 0h2m2 0h1m1 0h3m1 0h1m-57 1h1m1 0h3m1 0h1m1 0h2m1 0h3m3 0h2m5 0h1m1 0h2m1 0h3m3 0h3m1 0h1m1 0h3m3 0h1m2 0h1m1 0h3m1 0h1m-57 1h1m1 0h3m1 0h1m1 0h1m1 0h3m4 0h3m2 0h2m2 0h7m4 0h2m1 0h1m2 0h1m1 0h1m1 0h1m2 0h1m1 0h3m1 0h1m-57 1h1m5 0h1m2 0h1m3 0h1m1 0h2m2 0h4m3 0h1m3 0h2m1 0h1m1 0h3m1 0h1m4 0h1m1 0h1m3 0h1m5 0h1m-57 1h7m1 0h1m1 0h1m1 0h1m1 0h1m1 0h1m1 0h1m1 0h1m1 0h1m1 0h1m1 0h1m1 0h1m1 0h1m1 0h1m1 0h1m1 0h1m1 0h1m1 0h1m1 0h1m1 0h1m1 0h1m1 0h1m1 0h7m-47 1h4m3 0h3m3 0h1m2 0h1m3 0h1m1 0h1m1 0h4m2 0h4m1 0h3m-48 1h4m2 0h1m1 0h1m1 0h1m4 0h1m1 0h1m3 0h3m1 0h7m2 0h2m2 0h1m1 0h1m1 0h2m4 0h2m2 0h3m1 0h1m-57 1h2m1 0h3m2 0h5m1 0h1m3 0h2m3 0h5m2 0h3m3 0h1m2 0h4m4 0h3m2 0h1m1 0h3m-55 1h2m1 0h6m2 0h1m1 0h1m1 0h1m1 0h1m1 0h2m1 0h5m1 0h2m1 0h2m5 0h4m1 0h2m2 0h8m-57 1h3m8 0h5m1 0h1m2 0h1m3 0h2m2 0h1m1 0h1m1 0h2m1 0h5m1 0h3m5 0h1m1 0h3m-54 1h1m2 0h1m2 0h1m3 0h1m1 0h5m1 0h1m1 0h1m1 0h1m3 0h1m9 0h1m1 0h2m3 0h1m1 0h2m1 0h1m5 0h3m-55 1h1m2 0h1m2 0h1m2 0h1m2 0h2m3 0h2m5 0h3m4 0h1m2 0h4m1 0h1m2 0h2m1 0h1m1 0h2m1 0h1m1 0h1m-54 1h1m1 0h2m1 0h1m2 0h1m1 0h1m1 0h2m1 0h1m7 0h2m10 0h2m1 0h4m2 0h2m3 0h1m2 0h1m-54 1h1m1 0h1m1 0h1m2 0h2m9 0h1m1 0h3m1 0h2m6 0h1m1 0h4m2 0h3m1 0h5m1 0h5m-53 1h1m1 0h6m1 0h1m1 0h4m4 0h1m1 0h1m2 0h2m3 0h2m5 0h2m1 0h1m1 0h3m1 0h2m1 0h2m1 0h2m1 0h1m-57 1h4m1 0h1m6 0h5m5 0h2m5 0h1m1 0h5m3 0h3m3 0h2m2 0h1m1 0h1m1 0h4m-57 1h1m3 0h3m3 0h1m1 0h1m2 0h1m3 0h1m2 0h1m2 0h1m1 0h3m3 0h1m4 0h1m6 0h2m3 0h1m1 0h2m1 0h1m-55 1h1m1 0h1m1 0h1m2 0h2m1 0h6m3 0h1m4 0h2m2 0h1m3 0h1m1 0h2m1 0h1m3 0h1m1 0h1m1 0h1m2 0h4m2 0h2m-57 1h1m1 0h5m1 0h1m3 0h2m2 0h2m4 0h1m2 0h1m2 0h3m4 0h1m2 0h3m5 0h1m2 0h4m1 0h1m1 0h1m-57 1h2m1 0h2m2 0h1m3 0h1m1 0h1m2 0h2m3 0h2m1 0h1m2 0h1m1 0h2m1 0h2m1 0h3m1 0h2m1 0h2m3 0h3m4 0h1m-53 1h1m2 0h3m1 0h2m2 0h1m2 0h5m1 0h4m2 0h1m1 0h6m2 0h1m1 0h1m1 0h1m3 0h2m2 0h2m1 0h4m-56 1h1m1 0h3m1 0h1m4 0h1m1 0h2m1 0h3m1 0h2m1 0h1m5 0h3m2 0h2m1 0h2m2 0h2m2 0h1m2 0h1m2 0h2m1 0h2m-53 1h3m2 0h2m2 0h1m1 0h2m1 0h1m4 0h1m3 0h1m2 0h1m4 0h5m2 0h2m2 0h1m3 0h1m2 0h1m1 0h2m-54 1h1m1 0h1m1 0h2m2 0h4m3 0h4m1 0h1m1 0h1m2 0h2m2 0h1m2 0h1m1 0h4m4 0h1m3 0h2m1 0h1m-53 1h1m1 0h7m3 0h2m2 0h3m1 0h1m1 0h1m3 0h5m4 0h4m1 0h4m4 0h6m-54 1h1m3 0h1m3 0h1m7 0h1m2 0h1m3 0h1m2 0h1m3 0h4m5 0h1m3 0h1m4 0h1m3 0h4m-55 1h2m1 0h1m1 0h1m1 0h1m2 0h1m3 0h2m1 0h1m5 0h1m1 0h1m1 0h1m1 0h1m1 0h2m1 0h1m1 0h3m1 0h4m1 0h3m1 0h1m1 0h2m1 0h1m-56 1h5m3 0h1m1 0h2m1 0h4m4 0h3m1 0h2m3 0h1m1 0h3m1 0h1m3 0h1m2 0h6m3 0h1m2 0h2m-56 1h2m1 0h5m1 0h1m1 0h2m3 0h1m1 0h1m3 0h8m3 0h1m3 0h2m1 0h1m2 0h2m2 0h7m-55 1h2m3 0h1m1 0h2m5 0h1m4 0h1m2 0h1m7 0h2m1 0h1m1 0h1m1 0h6m2 0h4m1 0h1m1 0h1m-53 1h1m2 0h1m2 0h1m1 0h3m2 0h2m4 0h4m3 0h2m1 0h1m3 0h3m3 0h2m5 0h1m2 0h1m1 0h1m1 0h2m1 0h1m-56 1h1m2 0h2m1 0h1m1 0h1m1 0h2m6 0h1m1 0h4m1 0h2m1 0h3m1 0h1m2 0h2m1 0h1m2 0h2m1 0h1m1 0h2m2 0h1m1 0h2m1 0h1m-56 1h1m4 0h2m1 0h3m1 0h3m1 0h1m1 0h1m3 0h3m7 0h2m2 0h1m1 0h6m1 0h5m1 0h5m-55 1h1m1 0h2m1 0h1m2 0h2m2 0h1m1 0h4m2 0h1m1 0h1m2 0h1m3 0h1m1 0h2m1 0h1m3 0h1m1 0h2m2 0h6m-51 1h2m1 0h1m1 0h1m1 0h2m1 0h1m5 0h2m5 0h1m1 0h1m1 0h1m1 0h2m1 0h5m1 0h1m1 0h1m1 0h1m5 0h4m-52 1h2m2 0h1m2 0h3m1 0h2m4 0h2m3 0h1m6 0h2m3 0h1m1 0h2m4 0h1m1 0h1m2 0h1m2 0h1m1 0h3m-56 1h1m2 0h1m2 0h2m1 0h1m1 0h3m1 0h2m1 0h3m1 0h1m2 0h2m1 0h2m1 0h3m2 0h2m2 0h2m1 0h1m3 0h1m3 0h3m2 0h1m-55 1h1m1 0h1m2 0h1m2 0h1m1 0h4m3 0h3m1 0h2m6 0h2m1 0h1m3 0h1m1 0h4m1 0h1m1 0h2m1 0h1m1 0h3m-53 1h1m1 0h1m1 0h3m2 0h1m4 0h1m2 0h3m1 0h1m2 0h3m2 0h2m1 0h1m3 0h2m1 0h1m1 0h3m1 0h2m1 0h4m2 0h1m-55 1h1m1 0h1m3 0h9m1 0h1m3 0h2m1 0h2m1 0h1m4 0h3m4 0h2m4 0h1m3 0h4m1 0h2m-57 1h4m2 0h3m2 0h1m1 0h1m4 0h2m2 0h3m1 0h2m1 0h3m1 0h2m3 0h2m1 0h1m1 0h1m1 0h1m1 0h3m2 0h2m1 0h1m-56 1h2m1 0h1m1 0h1m2 0h1m4 0h1m5 0h1m2 0h4m2 0h4m4 0h2m1 0h1m1 0h1m2 0h2m1 0h2m1 0h1m4 0h2m-55 1h1m3 0h1m3 0h3m6 0h3m2 0h1m2 0h1m2 0h2m5 0h1m1 0h5m1 0h2m5 0h1m2 0h1m-53 1h2m2 0h1m1 0h1m3 0h1m3 0h3m1 0h1m1 0h2m1 0h1m3 0h1m5 0h2m4 0h1m1 0h1m2 0h5m2 0h1m1 0h1m-57 1h1m1 0h1m2 0h2m5 0h3m1 0h1m1 0h1m1 0h1m2 0h7m1 0h2m1 0h1m1 0h2m2 0h4m1 0h1m2 0h1m1 0h2m1 0h4m-57 1h5m2 0h1m2 0h1m2 0h1m2 0h1m1 0h1m2 0h7m1 0h4m2 0h1m1 0h1m5 0h2m1 0h1m1 0h1m1 0h1m2 0h1m2 0h1m-51 1h3m1 0h3m1 0h2m2 0h3m3 0h8m1 0h4m1 0h1m3 0h2m1 0h1m2 0h5m2 0h2m-49 1h2m5 0h1m1 0h4m1 0h2m2 0h1m3 0h1m1 0h2m1 0h2m1 0h3m3 0h2m2 0h1m3 0h2m-54 1h7m4 0h1m1 0h2m1 0h2m4 0h3m1 0h1m1 0h1m1 0h1m3 0h1m1 0h2m2 0h1m2 0h2m1 0h1m1 0h1m1 0h1m1 0h1m-53 1h1m5 0h1m3 0h1m3 0h2m2 0h1m1 0h1m5 0h1m3 0h3m4 0h2m1 0h4m1 0h2m1 0h1m3 0h3m-55 1h1m1 0h3m1 0h1m2 0h1m1 0h2m6 0h3m1 0h1m1 0h6m1 0h2m4 0h1m2 0h1m1 0h3m1 0h6m-53 1h1m1 0h3m1 0h1m1 0h1m3 0h1m2 0h1m1 0h3m3 0h1m1 0h2m2 0h2m3 0h3m4 0h1m1 0h4m1 0h1m1 0h1m1 0h1m2 0h1m-56 1h1m1 0h3m1 0h1m1 0h3m4 0h5m12 0h1m1 0h1m1 0h1m3 0h3m2 0h4m5 0h1m-55 1h1m5 0h1m1 0h1m3 0h7m1 0h2m1 0h1m1 0h3m5 0h4m1 0h3m2 0h2m1 0h1m1 0h4m4 0h1m-57 1h7m1 0h1m1 0h1m1 0h2m3 0h1m2 0h1m1 0h1m5 0h1m6 0h1m3 0h2m6 0h1m2 0h1m3 0h1"/></svg>
+
 </div>
             <div class="qr-cap">Scan to save contact</div>
           </div>
           <div class="rule"></div>
           <div class="info">
-            <p class="name">Faisal Alshammari</p>
+            <p class="name">Faisal M. Alshammari</p>
             <p class="title">Director, General Administration<br>of Supply Chain</p>
             <p class="org">Hail Health Cluster</p>
             <div class="line"><svg viewBox="0 0 24 24" fill="none" stroke="#39AAE1" stroke-width="2" stroke-linecap="round" stroke-linejoin="round" aria-hidden="true"><path d="M22 16.9v3a2 2 0 0 1-2.2 2 19.8 19.8 0 0 1-8.6-3.1 19.5 19.5 0 0 1-6-6A19.8 19.8 0 0 1 2.1 4.2 2 2 0 0 1 4.1 2h3a2 2 0 0 1 2 1.7c.1.9.4 1.8.7 2.7a2 2 0 0 1-.5 2.1L8 9.8a16 16 0 0 0 6 6l1.3-1.3a2 2 0 0 1 2.1-.4c.9.3 1.8.6 2.7.7a2 2 0 0 1 1.7 2z"/></svg><span class="tel">+966 54 369 8888</span></div>

diff --git a/fahad/index.html b/fahad/index.html
@@ -114,6 +114,7 @@ body{background:var(--ground);color:var(--ink);font-family:var(--font);-webkit-t
             <img src="../logo.png" alt="تجمع حائل الصحي - شركة الصحة القابضة">
             <div class="qr" role="img" aria-label="رمز QR لحفظ جهة الاتصال"><svg xmlns="http://www.w3.org/2000/svg" viewBox="0 0 61 61" shape-rendering="crispEdges"><path class="qrline" stroke="#0e3a66" d="M0 0.5h7m1 0h1m1 0h8m1 0h1m1 0h1m2 0h2m2 0h3m4 0h3m3 0h2m8 0h2m1 0h7m-61 1h1m5 0h1m1 0h3m1 0h2m2 0h2m1 0h2m1 0h4m3 0h9m2 0h4m1 0h2m2 0h1m1 0h2m1 0h1m5 0h1m-61 1h1m1 0h3m1 0h1m1 0h1m1 0h3m4 0h1m2 0h4m1 0h1m1 0h1m1 0h1m1 0h2m1 0h2m1 0h1m3 0h2m1 0h2m2 0h1m1 0h3m1 0h1m1 0h3m1 0h1m-61 1h1m1 0h3m1 0h1m1 0h2m4 0h2m3 0h1m5 0h1m1 0h2m1 0h1m1 0h2m1 0h4m1 0h1m3 0h1m1 0h1m2 0h2m1 0h1m1 0h1m1 0h3m1 0h1m-61 1h1m1 0h3m1 0h1m2 0h5m1 0h1m1 0h2m2 0h1m1 0h4m1 0h6m1 0h2m2 0h1m1 0h4m1 0h1m1 0h4m2 0h1m1 0h3m1 0h1m-61 1h1m5 0h1m1 0h1m1 0h1m1 0h2m2 0h1m1 0h1m1 0h2m1 0h2m2 0h2m3 0h1m5 0h2m3 0h1m3 0h2m1 0h1m3 0h1m5 0h1m-61 1h7m1 0h1m1 0h1m1 0h1m1 0h1m1 0h1m1 0h1m1 0h1m1 0h1m1 0h1m1 0h1m1 0h1m1 0h1m1 0h1m1 0h1m1 0h1m1 0h1m1 0h1m1 0h1m1 0h1m1 0h1m1 0h1m1 0h1m1 0h1m1 0h7m-51 1h2m2 0h3m2 0h1m1 0h2m1 0h1m1 0h1m1 0h1m3 0h4m1 0h4m3 0h2m1 0h1m1 0h1m1 0h1m-52 1h2m2 0h3m2 0h2m5 0h1m1 0h5m1 0h1m3 0h6m3 0h3m1 0h1m1 0h1m2 0h1m2 0h1m1 0h1m3 0h1m1 0h4m-59 1h2m4 0h1m1 0h3m1 0h1m1 0h3m2 0h1m3 0h2m1 0h1m1 0h7m1 0h2m1 0h1m1 0h6m1 0h6m2 0h1m1 0h1m-61 1h1m1 0h1m2 0h2m7 0h5m1 0h1m1 0h1m5 0h1m5 0h3m3 0h1m3 0h1m1 0h3m2 0h3m1 0h1m2 0h1m-59 1h1m3 0h1m2 0h1m2 0h4m1 0h1m1 0h1m1 0h2m2 0h3m1 0h3m3 0h1m3 0h1m1 0h1m4 0h3m5 0h3m1 0h2m1 0h2m-61 1h1m2 0h2m1 0h10m3 0h1m1 0h1m5 0h1m1 0h1m1 0h2m1 0h5m1 0h2m2 0h1m2 0h1m1 0h1m1 0h1m1 0h2m1 0h1m3 0h1m-61 1h1m1 0h4m1 0h1m1 0h4m2 0h2m3 0h1m5 0h1m2 0h1m7 0h2m2 0h1m2 0h2m2 0h1m1 0h2m8 0h1m-60 1h1m4 0h1m1 0h1m1 0h1m1 0h1m2 0h3m1 0h1m3 0h1m1 0h1m1 0h4m2 0h4m1 0h2m8 0h1m4 0h1m1 0h1m2 0h1m-59 1h1m2 0h2m2 0h3m3 0h1m1 0h2m1 0h1m2 0h1m1 0h2m1 0h1m1 0h1m1 0h2m2 0h1m1 0h1m1 0h1m1 0h1m2 0h4m1 0h1m1 0h1m2 0h2m4 0h1m-59 1h1m2 0h1m1 0h4m3 0h3m2 0h1m1 0h3m1 0h1m2 0h1m2 0h4m2 0h5m1 0h5m1 0h4m3 0h1m1 0h1m2 0h1m-61 1h3m4 0h1m1 0h2m1 0h1m1 0h1m8 0h1m2 0h1m4 0h2m6 0h1m1 0h4m4 0h1m1 0h1m2 0h1m1 0h1m3 0h1m-61 1h1m5 0h2m8 0h2m2 0h2m1 0h4m1 0h1m1 0h2m5 0h1m1 0h2m2 0h3m2 0h1m1 0h2m1 0h2m1 0h5m-61 1h3m5 0h1m1 0h1m2 0h1m1 0h2m1 0h1m1 0h1m1 0h1m1 0h1m4 0h1m3 0h2m3 0h2m2 0h2m2 0h1m1 0h2m1 0h1m2 0h2m2 0h1m-59 1h1m1 0h1m3 0h1m2 0h12m1 0h2m1 0h4m1 0h1m2 0h3m2 0h2m2 0h1m2 0h1m1 0h2m1 0h1m2 0h1m4 0h1m-57 1h4m5 0h1m1 0h1m1 0h1m3 0h1m4 0h1m2 0h1m5 0h1m1 0h3m2 0h3m1 0h3m1 0h1m1 0h1m2 0h5m1 0h2m-60 1h1m1 0h4m2 0h1m6 0h1m1 0h2m1 0h1m6 0h3m2 0h2m1 0h1m5 0h3m1 0h1m2 0h1m2 0h1m1 0h1m1 0h1m1 0h1m1 0h1m-61 1h2m2 0h1m2 0h1m2 0h2m3 0h4m1 0h3m2 0h1m4 0h4m3 0h7m1 0h1m3 0h1m1 0h3m1 0h1m2 0h2m-58 1h2m2 0h1m3 0h3m2 0h1m1 0h1m2 0h1m1 0h5m1 0h4m1 0h1m1 0h1m1 0h3m1 0h2m2 0h1m1 0h1m2 0h1m2 0h1m2 0h1m2 0h2m-58 1h2m2 0h4m1 0h2m1 0h2m1 0h6m2 0h1m1 0h1m2 0h2m1 0h2m1 0h4m2 0h1m2 0h1m3 0h1m1 0h4m1 0h1m2 0h1m-61 1h5m1 0h1m2 0h1m1 0h1m1 0h4m1 0h2m4 0h1m1 0h4m3 0h9m2 0h6m2 0h2m2 0h1m-56 1h1m1 0h1m1 0h1m1 0h1m1 0h2m2 0h2m1 0h1m1 0h1m6 0h1m3 0h1m2 0h2m2 0h3m1 0h3m1 0h6m1 0h1m1 0h2m1 0h1m2 0h2m-61 1h11m1 0h3m1 0h2m1 0h3m1 0h3m2 0h5m1 0h1m1 0h1m2 0h2m1 0h1m1 0h3m5 0h6m2 0h1m-60 1h1m2 0h1m3 0h7m2 0h2m1 0h2m1 0h1m1 0h4m3 0h2m2 0h3m4 0h2m3 0h3m1 0h1m3 0h1m1 0h2m-57 1h2m1 0h1m1 0h3m4 0h1m1 0h1m2 0h4m2 0h1m1 0h1m1 0h1m1 0h1m1 0h1m4 0h4m1 0h1m2 0h4m1 0h1m1 0h1m1 0h1m1 0h2m-60 1h3m1 0h1m3 0h1m3 0h2m2 0h2m1 0h1m2 0h2m4 0h1m3 0h1m1 0h1m1 0h1m1 0h1m2 0h2m4 0h1m2 0h3m3 0h2m1 0h2m-57 1h5m1 0h1m2 0h1m3 0h1m1 0h2m2 0h3m2 0h5m3 0h1m1 0h1m1 0h3m1 0h1m1 0h4m2 0h5m2 0h2m-61 1h3m1 0h2m2 0h2m1 0h3m1 0h5m1 0h1m2 0h2m2 0h1m1 0h2m5 0h1m3 0h2m1 0h1m2 0h1m3 0h1m4 0h5m-60 1h1m1 0h1m2 0h1m2 0h7m1 0h3m2 0h1m3 0h2m1 0h1m1 0h2m6 0h1m3 0h1m4 0h2m2 0h1m1 0h1m1 0h1m1 0h1m1 0h1m-61 1h2m1 0h3m4 0h2m1 0h2m2 0h1m2 0h2m1 0h1m1 0h3m5 0h5m1 0h1m4 0h2m2 0h1m2 0h2m2 0h2m1 0h3m-60 1h3m1 0h4m2 0h4m1 0h3m1 0h1m3 0h1m1 0h2m2 0h1m1 0h2m3 0h3m2 0h2m3 0h3m4 0h1m1 0h1m1 0h3m-59 1h2m1 0h1m1 0h5m2 0h2m6 0h3m1 0h2m1 0h5m2 0h1m3 0h5m1 0h1m1 0h1m1 0h1m1 0h1m1 0h1m2 0h1m2 0h1m-61 1h1m5 0h1m4 0h1m1 0h1m2 0h2m1 0h1m1 0h3m1 0h2m1 0h3m3 0h4m3 0h2m1 0h1m2 0h2m2 0h2m1 0h1m4 0h2m-60 1h3m4 0h3m1 0h2m5 0h2m1 0h2m2 0h6m2 0h1m1 0h1m1 0h3m2 0h2m1 0h1m1 0h1m9 0h1m-58 1h3m1 0h3m2 0h3m1 0h1m3 0h5m4 0h8m1 0h2m1 0h1m2 0h3m4 0h1m2 0h4m-54 1h1m1 0h1m8 0h1m2 0h3m2 0h1m3 0h3m2 0h1m1 0h4m1 0h3m1 0h1m1 0h1m4 0h1m1 0h2m3 0h1m2 0h1m-59 1h2m4 0h1m1 0h2m1 0h1m2 0h1m1 0h3m1 0h4m1 0h1m1 0h6m1 0h1m1 0h1m1 0h1m4 0h7m1 0h1m1 0h1m3 0h3m-59 1h1m5 0h1m1 0h1m1 0h3m1 0h1m1 0h1m1 0h3m1 0h4m7 0h2m2 0h2m4 0h2m4 0h2m1 0h2m1 0h2m-56 1h2m2 0h4m2 0h3m4 0h3m5 0h2m6 0h3m6 0h1m1 0h2m1 0h1m1 0h1m2 0h1m2 0h2m1 0h1m-61 1h1m1 0h1m7 0h1m2 0h1m2 0h1m3 0h1m3 0h1m1 0h1m3 0h1m2 0h1m4 0h1m2 0h1m10 0h5m1 0h2m-60 1h2m1 0h2m1 0h2m1 0h1m6 0h3m1 0h1m3 0h1m1 0h2m1 0h2m2 0h2m1 0h1m3 0h1m2 0h3m1 0h3m1 0h2m3 0h2m1 0h1m-60 1h2m3 0h1m1 0h6m2 0h1m1 0h1m2 0h2m2 0h1m2 0h4m2 0h1m2 0h1m1 0h1m1 0h2m3 0h3m2 0h3m2 0h2m-51 1h2m1 0h2m2 0h3m4 0h3m1 0h3m2 0h4m3 0h2m1 0h2m1 0h1m1 0h1m2 0h4m1 0h1m2 0h1m1 0h1m2 0h1m-61 1h3m1 0h1m3 0h1m1 0h1m3 0h1m8 0h1m1 0h1m2 0h1m1 0h1m1 0h1m2 0h2m2 0h6m2 0h3m1 0h2m1 0h5m1 0h1m-59 1h6m4 0h2m2 0h2m2 0h6m1 0h1m2 0h3m2 0h3m2 0h2m1 0h1m1 0h6m1 0h3m4 0h2m-61 1h3m1 0h1m2 0h6m1 0h3m2 0h1m1 0h2m1 0h1m2 0h1m1 0h2m2 0h2m3 0h2m1 0h3m1 0h1m1 0h5m1 0h2m1 0h1m1 0h1m-59 1h4m2 0h2m3 0h1m2 0h1m1 0h4m1 0h4m1 0h1m1 0h5m1 0h2m1 0h2m3 0h1m2 0h1m1 0h4m1 0h5m1 0h1m-51 1h8m3 0h1m1 0h1m1 0h2m1 0h3m3 0h2m1 0h3m1 0h1m1 0h4m4 0h2m1 0h1m3 0h1m1 0h3m-61 1h7m4 0h2m1 0h1m1 0h1m1 0h1m2 0h1m5 0h2m1 0h1m1 0h3m2 0h3m2 0h1m2 0h1m1 0h4m1 0h1m1 0h1m1 0h1m1 0h1m1 0h1m-61 1h1m5 0h1m1 0h1m2 0h2m4 0h2m1 0h6m2 0h1m3 0h2m1 0h2m1 0h1m2 0h2m2 0h1m5 0h2m3 0h1m1 0h1m1 0h1m-61 1h1m1 0h3m1 0h1m1 0h2m1 0h1m1 0h3m1 0h1m2 0h1m1 0h11m8 0h2m1 0h1m1 0h2m4 0h5m2 0h2m-61 1h1m1 0h3m1 0h1m5 0h1m1 0h3m1 0h3m1 0h2m2 0h1m1 0h2m4 0h1m1 0h4m3 0h1m1 0h1m2 0h1m1 0h3m7 0h1m-61 1h1m1 0h3m1 0h1m3 0h4m5 0h1m1 0h1m1 0h1m2 0h1m1 0h2m1 0h1m1 0h1m1 0h4m1 0h2m2 0h1m1 0h1m5 0h1m3 0h1m1 0h2m-60 1h1m5 0h1m1 0h2m1 0h1m1 0h2m1 0h1m1 0h1m4 0h1m3 0h2m2 0h1m1 0h1m1 0h1m1 0h1m1 0h4m1 0h1m2 0h2m1 0h2m1 0h2m4 0h1m-60 1h7m1 0h1m1 0h1m4 0h1m1 0h1m7 0h1m1 0h1m4 0h2m1 0h2m1 0h1m1 0h7m2 0h4m1 0h2m1 0h1m1 0h2"/></svg>
 
+
 </div>
             <div class="qr-cap">امسح لحفظ جهة الاتصال</div>
           </div>
@@ -132,6 +133,7 @@ body{background:var(--ground);color:var(--ink);font-family:var(--font);-webkit-t
             <svg class="wave" viewBox="0 0 100 100" preserveAspectRatio="none" aria-hidden="true"><defs><linearGradient id="g" x1="0" y1="0" x2="1" y2="1"><stop offset="0" stop-color="#CDEBFA"/><stop offset=".55" stop-color="#E6F5FD"/><stop offset="1" stop-color="#FFFFFF" stop-opacity="0"/></linearGradient><linearGradient id="g2" x1="0" y1="1" x2="1" y2="0"><stop offset="0" stop-color="#39AAE1" stop-opacity=".22"/><stop offset="1" stop-color="#39AAE1" stop-opacity="0"/></linearGradient></defs><path fill="url(#g)" d="M0 0H100V100H0Z"/><path fill="url(#g2)" d="M0 68C22 56 40 82 62 74S88 58 100 62V100H0Z"/><path fill="none" stroke="#39AAE1" stroke-opacity=".35" stroke-width=".5" d="M0 74C24 62 42 88 64 80S88 64 100 68"/></svg>
             <img src="../logo.png" alt="Hail Health Cluster - Health Holding">
             <div class="qr" role="img" aria-label="QR code to save contact"><svg xmlns="http://www.w3.org/2000/svg" viewBox="0 0 53 53" shape-rendering="crispEdges"><path class="qrline" stroke="#0e3a66" d="M0 0.5h7m1 0h1m1 0h1m4 0h1m3 0h1m2 0h3m2 0h4m1 0h1m4 0h1m2 0h3m3 0h7m-53 1h1m5 0h1m2 0h1m1 0h2m4 0h2m4 0h1m1 0h1m1 0h1m1 0h2m1 0h1m1 0h1m3 0h1m1 0h4m2 0h1m5 0h1m-53 1h1m1 0h3m1 0h1m1 0h3m1 0h1m2 0h2m1 0h1m1 0h2m5 0h3m2 0h1m2 0h3m2 0h1m2 0h1m2 0h1m1 0h3m1 0h1m-53 1h1m1 0h3m1 0h1m1 0h2m2 0h2m1 0h6m3 0h1m1 0h2m5 0h2m1 0h2m4 0h1m1 0h1m1 0h1m1 0h3m1 0h1m-53 1h1m1 0h3m1 0h1m1 0h1m6 0h1m1 0h1m2 0h1m1 0h1m1 0h6m1 0h3m2 0h4m2 0h1m3 0h1m1 0h3m1 0h1m-53 1h1m5 0h1m3 0h1m1 0h3m1 0h2m4 0h1m1 0h1m3 0h4m2 0h1m1 0h2m1 0h1m1 0h2m3 0h1m5 0h1m-53 1h7m1 0h1m1 0h1m1 0h1m1 0h1m1 0h1m1 0h1m1 0h1m1 0h1m1 0h1m1 0h1m1 0h1m1 0h1m1 0h1m1 0h1m1 0h1m1 0h1m1 0h1m1 0h1m1 0h1m1 0h7m-44 1h2m1 0h1m2 0h1m3 0h6m3 0h2m1 0h1m3 0h1m1 0h8m-45 1h4m2 0h1m1 0h2m1 0h1m1 0h1m2 0h2m1 0h2m1 0h1m1 0h5m1 0h1m2 0h3m1 0h2m1 0h1m1 0h2m1 0h1m2 0h3m1 0h1m-53 1h1m3 0h1m3 0h1m2 0h1m5 0h1m1 0h1m2 0h1m1 0h1m1 0h1m1 0h4m5 0h1m1 0h1m1 0h2m4 0h2m2 0h1m-51 1h6m2 0h2m1 0h2m2 0h2m3 0h2m1 0h4m1 0h4m1 0h3m2 0h1m1 0h1m2 0h2m5 0h1m-52 1h3m5 0h1m1 0h1m1 0h3m1 0h3m1 0h1m1 0h2m8 0h3m2 0h2m1 0h2m1 0h1m1 0h1m1 0h3m1 0h2m-53 1h2m1 0h1m2 0h1m2 0h5m2 0h3m5 0h1m1 0h1m1 0h1m1 0h1m2 0h5m3 0h4m3 0h1m2 0h2m-53 1h3m1 0h1m6 0h1m3 0h1m1 0h6m3 0h1m1 0h1m2 0h3m1 0h5m1 0h1m2 0h2m3 0h1m1 0h2m-52 1h1m1 0h1m1 0h3m1 0h2m1 0h2m1 0h3m1 0h1m4 0h1m2 0h2m2 0h2m1 0h1m2 0h1m1 0h6m1 0h2m1 0h4m-51 1h2m3 0h5m3 0h1m2 0h5m1 0h1m2 0h1m1 0h2m1 0h4m3 0h3m1 0h1m1 0h1m2 0h1m-49 1h4m1 0h2m4 0h1m2 0h2m1 0h1m5 0h1m2 0h1m1 0h1m2 0h2m2 0h1m1 0h3m1 0h3m2 0h1m2 0h1m1 0h1m-52 1h2m10 0h2m1 0h2m1 0h2m4 0h1m1 0h1m2 0h1m1 0h1m1 0h2m1 0h1m2 0h2m2 0h1m1 0h2m1 0h3m1 0h1m-53 1h1m2 0h2m1 0h1m1 0h2m2 0h2m5 0h1m3 0h1m3 0h1m4 0h4m2 0h1m2 0h1m2 0h1m2 0h2m1 0h1m-50 1h3m1 0h1m2 0h1m3 0h2m3 0h1m3 0h1m4 0h1m1 0h2m7 0h1m5 0h1m3 0h1m1 0h4m-53 1h2m1 0h4m1 0h1m1 0h1m1 0h2m3 0h1m1 0h1m1 0h2m2 0h4m4 0h3m1 0h1m1 0h3m2 0h2m1 0h1m3 0h2m-51 1h4m2 0h1m2 0h2m1 0h1m4 0h1m2 0h3m1 0h2m1 0h2m1 0h1m2 0h1m3 0h2m1 0h1m5 0h1m1 0h3m-53 1h11m1 0h2m2 0h1m1 0h1m1 0h5m2 0h1m1 0h2m1 0h1m1 0h1m1 0h2m2 0h1m1 0h3m2 0h1m3 0h1m-52 1h2m3 0h1m3 0h2m2 0h2m1 0h3m2 0h1m1 0h1m5 0h1m1 0h2m1 0h1m2 0h2m3 0h3m1 0h2m3 0h1m-50 1h7m3 0h4m2 0h4m2 0h8m3 0h2m7 0h6m1 0h1m-48 1h1m3 0h2m1 0h1m2 0h2m1 0h1m1 0h2m1 0h3m3 0h1m3 0h2m1 0h5m3 0h2m3 0h3m-50 1h2m1 0h1m1 0h1m1 0h1m3 0h2m1 0h1m2 0h2m2 0h3m1 0h1m1 0h1m1 0h1m1 0h1m2 0h1m1 0h4m2 0h2m1 0h1m1 0h2m1 0h2m-51 1h1m1 0h1m3 0h1m1 0h1m1 0h1m2 0h1m1 0h2m1 0h1m1 0h1m1 0h1m3 0h2m1 0h2m1 0h1m1 0h1m1 0h2m1 0h2m1 0h1m3 0h2m-46 1h5m2 0h6m2 0h3m2 0h5m2 0h2m4 0h1m3 0h1m1 0h6m1 0h2m-50 1h1m1 0h2m1 0h1m1 0h5m1 0h2m1 0h1m2 0h1m1 0h2m4 0h1m3 0h4m3 0h1m4 0h1m1 0h1m-47 1h3m2 0h1m1 0h1m1 0h1m1 0h1m6 0h1m2 0h1m1 0h1m3 0h1m6 0h3m1 0h3m2 0h1m5 0h1m-48 1h1m1 0h1m1 0h5m1 0h3m1 0h2m2 0h3m2 0h2m5 0h1m1 0h1m2 0h1m1 0h2m1 0h2m2 0h5m-52 1h4m2 0h2m2 0h1m2 0h1m2 0h2m1 0h6m2 0h1m6 0h2m3 0h3m1 0h5m1 0h1m-47 1h1m3 0h1m2 0h1m2 0h1m4 0h2m1 0h3m4 0h1m1 0h2m1 0h1m3 0h1m1 0h5m3 0h3m1 0h1m-52 1h3m1 0h5m4 0h1m2 0h1m3 0h2m1 0h1m1 0h5m2 0h1m1 0h3m4 0h3m1 0h1m3 0h3m-51 1h2m2 0h1m1 0h2m1 0h1m3 0h4m4 0h1m1 0h1m3 0h5m1 0h2m3 0h1m2 0h1m3 0h1m1 0h1m-49 1h1m3 0h3m1 0h1m2 0h1m1 0h1m1 0h4m4 0h3m2 0h2m1 0h1m2 0h3m2 0h1m2 0h1m2 0h2m1 0h1m2 0h1m-52 1h2m1 0h1m3 0h1m2 0h2m3 0h1m1 0h4m1 0h1m1 0h4m3 0h3m3 0h3m1 0h1m1 0h3m1 0h1m2 0h1m1 0h1m-53 1h1m3 0h4m1 0h1m2 0h1m1 0h1m1 0h2m1 0h1m5 0h2m3 0h1m1 0h1m2 0h2m3 0h3m2 0h2m3 0h3m-53 1h1m1 0h2m1 0h1m3 0h1m2 0h1m1 0h2m1 0h3m1 0h1m1 0h2m8 0h1m2 0h2m1 0h3m1 0h1m1 0h1m1 0h3m1 0h2m-53 1h2m3 0h2m2 0h1m1 0h1m1 0h1m1 0h1m3 0h1m1 0h1m3 0h8m2 0h1m2 0h2m1 0h1m2 0h3m3 0h2m-52 1h4m4 0h2m3 0h1m1 0h2m6 0h7m1 0h1m1 0h5m3 0h1m4 0h2m2 0h1m1 0h1m-53 1h2m1 0h5m1 0h3m1 0h6m8 0h1m2 0h1m2 0h1m3 0h3m3 0h2m3 0h1m-48 1h2m8 0h2m3 0h4m1 0h1m1 0h1m3 0h1m1 0h2m3 0h1m1 0h1m2 0h2m2 0h2m5 0h1m1 0h1m-50 1h1m2 0h3m2 0h1m3 0h1m5 0h2m1 0h5m5 0h1m5 0h9m1 0h1m1 0h1m-45 1h1m1 0h5m4 0h1m2 0h3m3 0h1m1 0h2m3 0h3m4 0h1m1 0h1m3 0h1m2 0h2m-53 1h7m2 0h1m1 0h2m2 0h2m1 0h1m5 0h1m1 0h1m1 0h4m2 0h1m2 0h2m3 0h3m1 0h1m1 0h4m-52 1h1m5 0h1m2 0h1m5 0h1m2 0h5m1 0h1m3 0h5m2 0h5m2 0h1m1 0h1m3 0h1m-49 1h1m1 0h3m1 0h1m4 0h1m2 0h1m1 0h3m1 0h1m3 0h6m3 0h1m2 0h3m3 0h8m-50 1h1m1 0h3m1 0h1m1 0h1m2 0h1m1 0h2m2 0h1m1 0h2m1 0h2m1 0h2m1 0h1m7 0h1m1 0h2m3 0h1m1 0h3m4 0h1m-53 1h1m1 0h3m1 0h1m1 0h3m1 0h2m2 0h1m5 0h4m2 0h2m2 0h1m3 0h1m1 0h3m1 0h2m1 0h1m1 0h1m2 0h2m-52 1h1m5 0h1m1 0h2m1 0h2m5 0h1m1 0h3m2 0h1m1 0h3m2 0h2m2 0h1m3 0h1m1 0h1m6 0h1m1 0h1m-52 1h7m1 0h1m3 0h1m7 0h1m4 0h3m1 0h5m4 0h1m4 0h1m3 0h1m1 0h3"/></svg>
+
 
 </div>
             <div class="qr-cap">Scan to save contact</div>

diff --git a/fahad/sw.js b/fahad/sw.js
@@ -1,4 +1,4 @@
-const CACHE='fahad-card-v6';
+const CACHE='fahad-card-v7';
 const FILES=['./','index.html','../logo.png','manifest.webmanifest','Fahad-Alherbeed-ar.vcf','Fahad-Alherbeed-en.vcf','../icons/apple-touch-icon.png','../icons/icon-192.png','../icons/icon-512.png',
   '../assets/tajawal/Iura6YBj_oCad4k1nzSBC5xLhLFw4Q.woff2','../assets/tajawal/Iura6YBj_oCad4k1nzGBC5xLhLE.woff2','../assets/tajawal/Iurf6YBj_oCad4k1l4qkHrRpiZtK6GwN9w.woff2','../assets/tajawal/Iurf6YBj_oCad4k1l4qkHrFpiZtK6Gw.woff2'];
 // cache:'reload' skips the browser's HTTP cache so a new worker never stores a stale copy

diff --git a/sw.js b/sw.js
@@ -1,4 +1,4 @@
-const CACHE='faisal-card-v6';
+const CACHE='faisal-card-v7';
 const FILES=['./','index.html','logo.png','manifest.webmanifest','Faisal-Alshammari-ar.vcf','Faisal-Alshammari-en.vcf','icons/apple-touch-icon.png','icons/icon-192.png','icons/icon-512.png',
   'assets/tajawal/Iura6YBj_oCad4k1nzSBC5xLhLFw4Q.woff2','assets/tajawal/Iura6YBj_oCad4k1nzGBC5xLhLE.woff2','assets/tajawal/Iurf6YBj_oCad4k1l4qkHrRpiZtK6GwN9w.woff2','assets/tajawal/Iurf6YBj_oCad4k1l4qkHrFpiZtK6Gw.woff2'];
 // cache:'reload' skips the browser's HTTP cache so a new worker never stores a stale copy

diff --git a/tools/build_card.py b/tools/build_card.py
@@ -33,15 +33,15 @@ t = t.replace(svgs[0], qr(vc_ar)).replace(svgs[1], qr(vc_en))
 
 phone_disp = cfg['phone_display']
 reps = [
-    ('<title>فيصل الشمري | Faisal Alshammari</title>', f"<title>{cfg['ar']['name']} | {cfg['en']['name']}</title>"),
+    ('<title>فيصل مذود الشمري | Faisal M. Alshammari</title>', f"<title>{cfg['ar']['name']} | {cfg['en']['name']}</title>"),
     ('<meta name="apple-mobile-web-app-title" content="بطاقتي">', f'<meta name="apple-mobile-web-app-title" content="{cfg["short_name"]}">'),
     ('href="icons/', 'href="../icons/'),
     ('href="assets/', 'href="../assets/'),
     ('url(assets/', 'url(../assets/'),
     ('src="logo.png"', 'src="../logo.png"'),
-    ('<p class="name">فيصل الشمري</p>', f"<p class=\"name\">{cfg['ar'].get('display', cfg['ar']['name'])}</p>"),
+    ('<p class="name">فيصل مذود الشمري</p>', f"<p class=\"name\">{cfg['ar'].get('display', cfg['ar']['name'])}</p>"),
     ('<p class="title">مدير الإدارة العامة لسلاسل الإمداد</p>', f"<p class=\"title\">{cfg['ar']['title_html']}</p>"),
-    ('<p class="name">Faisal Alshammari</p>', f"<p class=\"name\">{cfg['en']['name']}</p>"),
+    ('<p class="name">Faisal M. Alshammari</p>', f"<p class=\"name\">{cfg['en']['name']}</p>"),
     ('<p class="title">Director, General Administration<br>of Supply Chain</p>', f"<p class=\"title\">{cfg['en']['title_html']}</p>"),
     ('+966 54 369 8888', phone_disp),
     ('fal-shammry@moh.gov.sa', cfg['email']),
